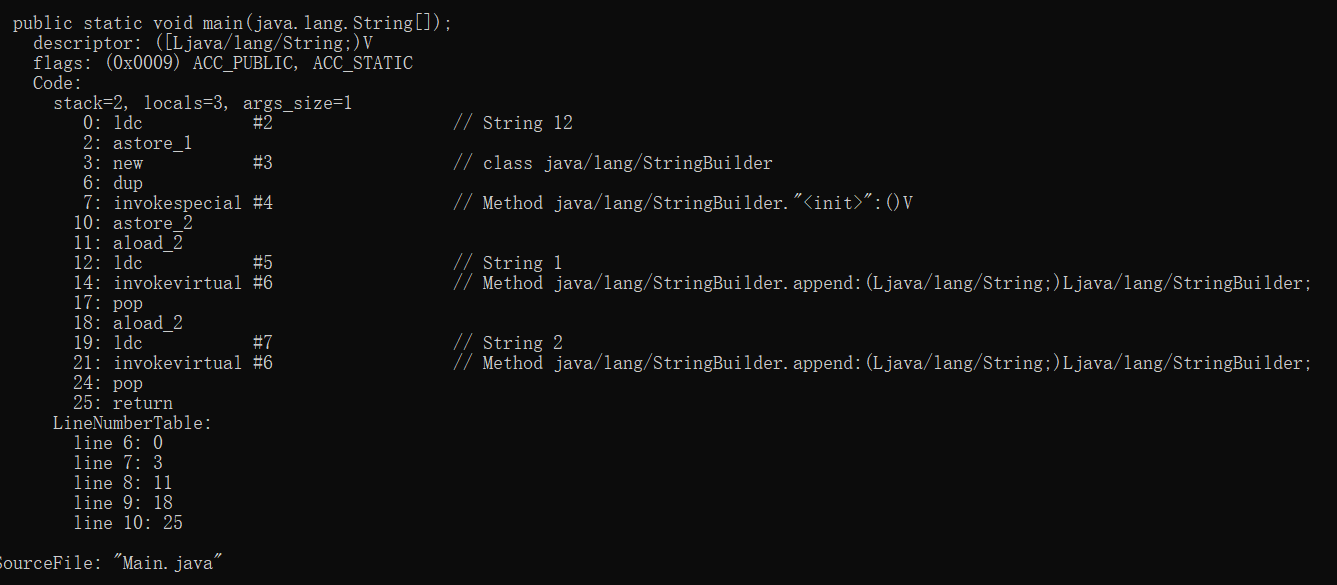
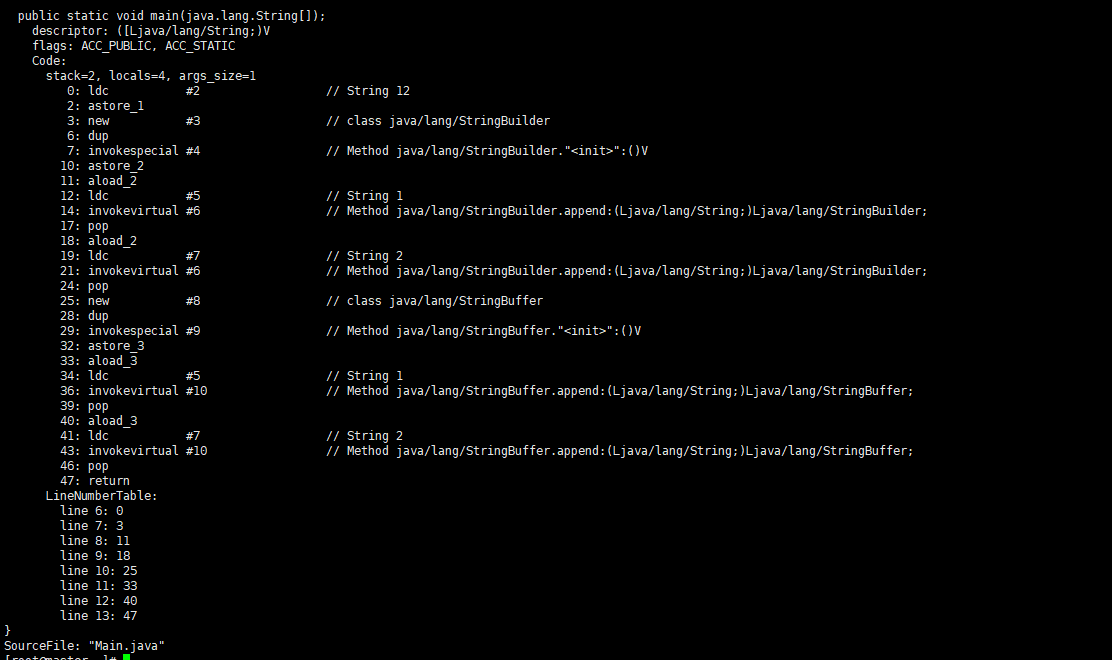
提交代码

Changed region(s): [[0.0, 0.0, 0.3363, 1.0], [0.3058, 0.1231, 0.9784, 0.5231], [0.3058, 0.5538, 0.9784, 0.7077]]

diff --git a/_posts/2019-06-25-关于字符串拼接的那点事.md b/_posts/2019-06-25-关于字符串拼接的那点事.md
@@ -1,6 +1,6 @@
 ---
 layout: post
-title: "关于字符串的那点事"
+title: "关于字符串拼接的那点事"
 subtitle: 'java字符串拼接最佳使用场景'
 author: "Starboyate"
 header-img: "img/singleton.jpg"
@@ -37,5 +37,7 @@ public class Main {
 为了很清晰的看出它们的区别，最好的方式就是直接去反编译这段代码，下面就是反编译出来的内容
 
 ![场景一反编译](https://github.com/starboyate/starboyate.github.io/tree/master/img/string-1.png)
+
+
 
 
